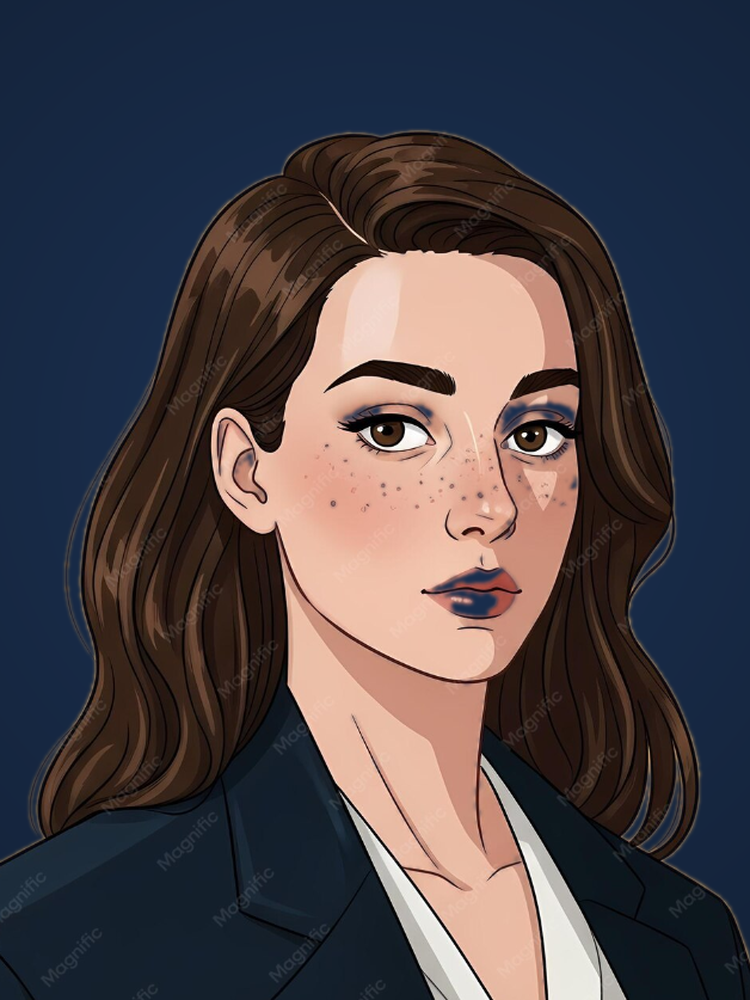
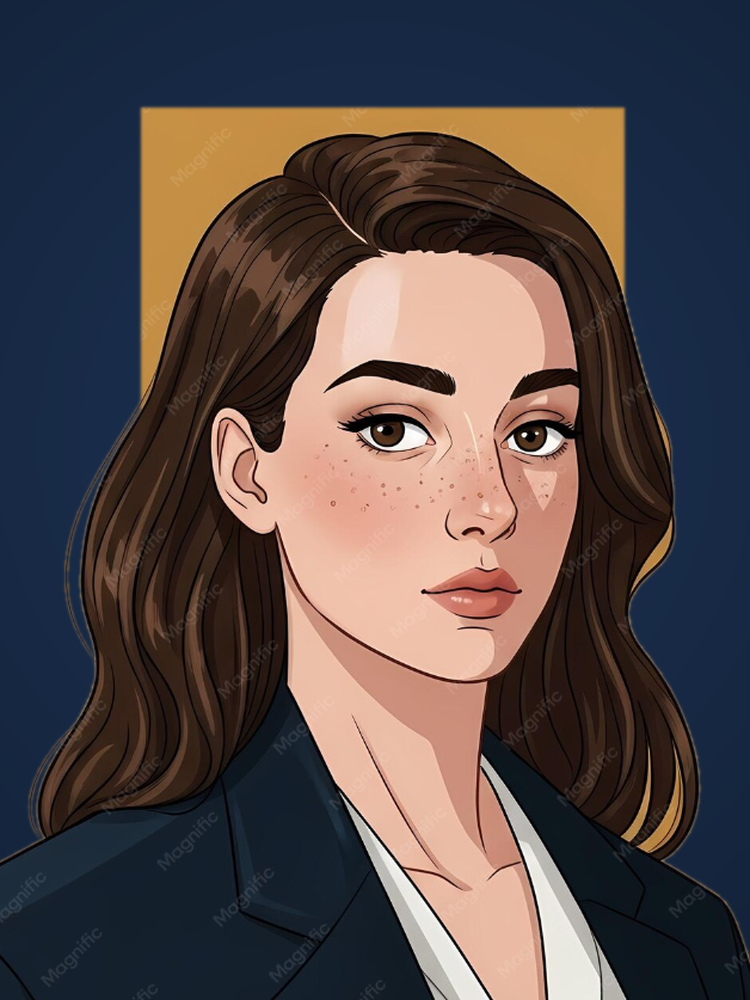
fix(contact): preserve facial details (mouth, teeth, eyes) on blue velvet background for Aimy & General Inquiries, and update translation to 常规咨询

diff --git a/contact.html b/contact.html
@@ -235,7 +235,7 @@ tailwind.config = {
             <!-- Card 7: Aimy Chen -->
       <div class="bg-white rounded-xl border border-slate-200 shadow-md overflow-hidden flex flex-row group hover:shadow-xl hover:-translate-y-0.5 transition duration-300">
         <div class="w-36 sm:w-40 aspect-[3/4] shrink-0 bg-slate-100 overflow-hidden">
-          <img src="assets/images/team/team_7.png?v=1787138328" alt="Aimy Chen" class="w-full h-full object-cover object-top group-hover:scale-105 transition duration-500"/>
+          <img src="assets/images/team/team_7.png?v=1787138891" alt="Aimy Chen" class="w-full h-full object-cover object-top group-hover:scale-105 transition duration-500"/>
         </div>
         <div class="p-4 sm:p-5 flex flex-col justify-between flex-1 min-w-0">
           <div>
@@ -260,11 +260,11 @@ tailwind.config = {
       <!-- Card 8: General Global Inquiries -->
       <div class="bg-white rounded-xl border border-slate-200 shadow-md overflow-hidden flex flex-row group hover:shadow-xl hover:-translate-y-0.5 transition duration-300">
         <div class="w-36 sm:w-40 aspect-[3/4] shrink-0 bg-slate-100 overflow-hidden">
-          <img src="assets/images/team/team_8.png?v=1787138328" alt="General Global Inquiries Desk" class="w-full h-full object-cover object-top group-hover:scale-105 transition duration-500"/>
+          <img src="assets/images/team/team_8.png?v=1787138891" alt="General Global Inquiries Desk" class="w-full h-full object-cover object-top group-hover:scale-105 transition duration-500"/>
         </div>
         <div class="p-4 sm:p-5 flex flex-col justify-between flex-1 min-w-0">
           <div>
-            <h3 class="text-base font-bold font-display text-brand-dark truncate">General Inquiries <span class="text-[11px] text-slate-400 font-sans font-normal ml-1">(官方服务)</span></h3>
+            <h3 class="text-base font-bold font-display text-brand-dark truncate">General Inquiries <span class="text-[11px] text-slate-400 font-sans font-normal ml-1">(常规咨询)</span></h3>
             <p class="text-[10px] text-brand-blue font-bold tracking-wide uppercase mt-0.5">Official Commercial Desk</p>
             <div class="mt-2 px-2 py-0.5 bg-slate-50 rounded border border-slate-100 inline-block max-w-full truncate">
               <p class="text-[10px] text-slate-600 font-medium truncate"><i class="fa-solid fa-clock text-brand-blue/70 mr-1"></i> 24h Response Guarantee</p>
